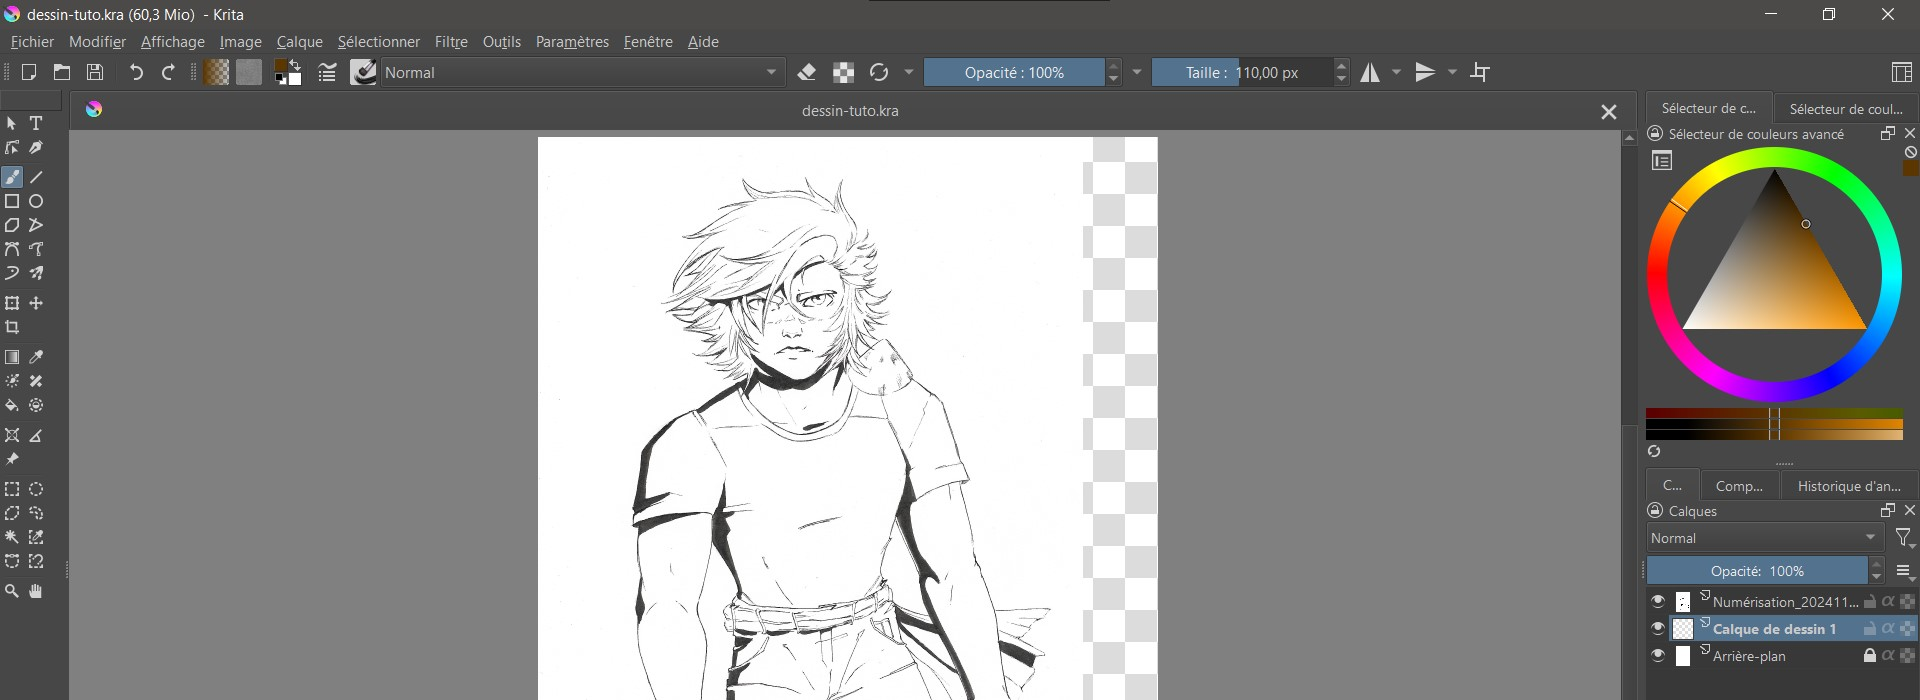
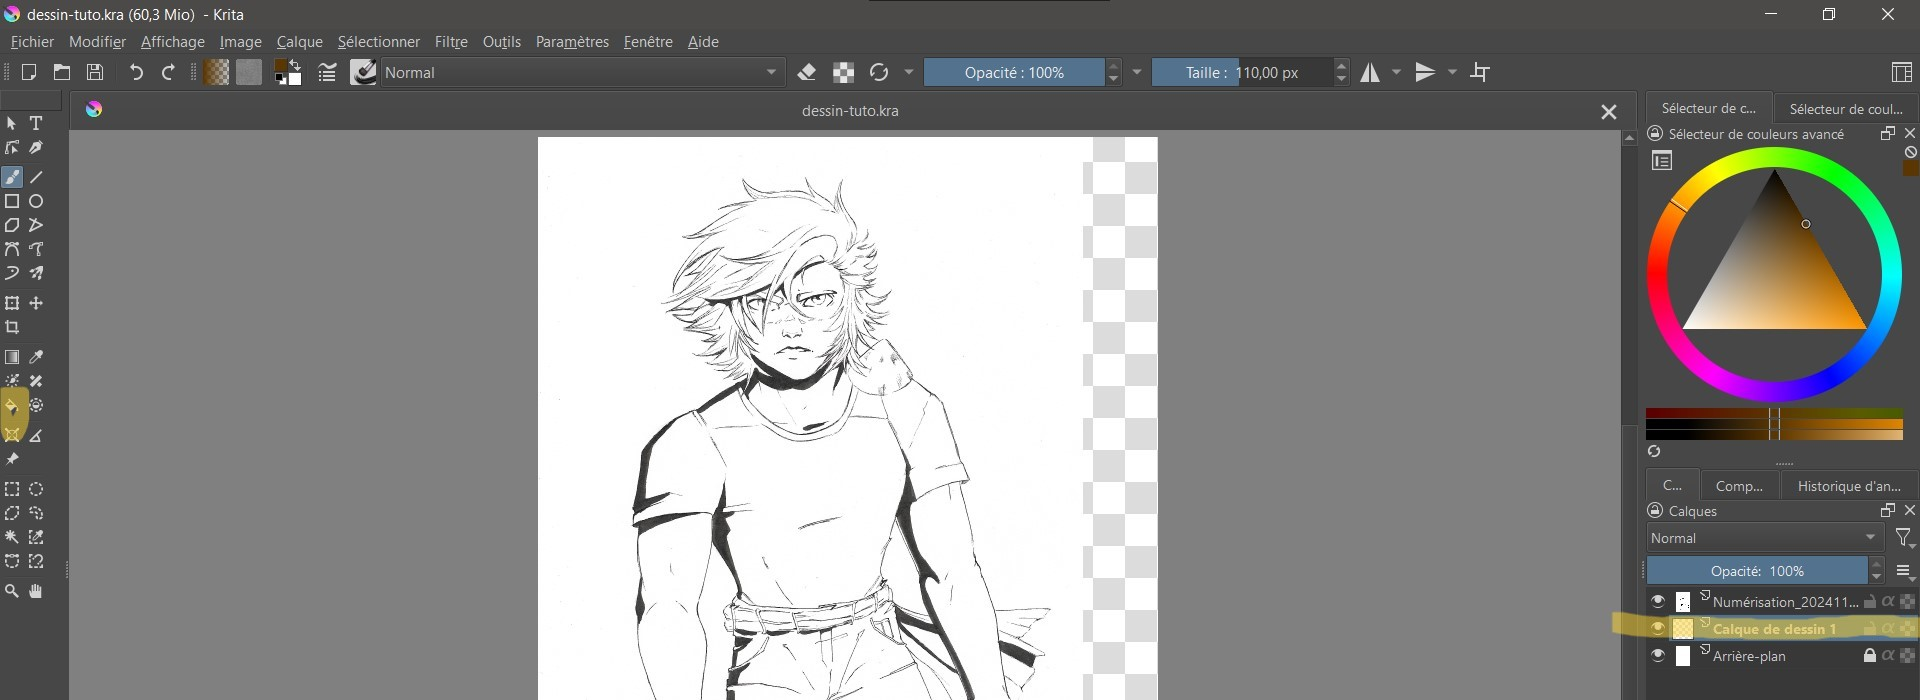
completion de la technique 1

Changed region(s): [[0.8125, 0.87, 1.0, 0.93], [0.0, 0.54, 0.0312, 0.63]]

diff --git a/graphisme/coloAvecKrita.md b/graphisme/coloAvecKrita.md
@@ -88,11 +88,17 @@ Sélectionner le dessin que nous avons scanné, l'ouvrir.
 - Créer un nouveau calque et le placer en dessous du scan
 - Double-cliquer sur son nom et le renommer 'fond' ou 'Arrière-plan'
 - Se positionner sur le calque de fond
+
+![selectionner le pot de peinture](/img/rajouter-pot-peinture-calque.jpg)
+
 - Sélectionner le pot de peinture (raccourci : F), la couleur blanche, et cliquez pour peindre tout le calque en blanc
 - Sauvegarder le fichier : Fichier > Enregistrer Sous... (raccourci Ctrl + Maj + S)
 - Sélectionner l'emplacement
 - Dans le menu déroulant des formats, sélectionner le format Krita (.kra)
 Valider
+![comment enregistrer le fichier](/img/ou-enregistrer-le-fichier.jpg)
+
+
 
 ### Technique 2 : Créer un nouveau fichier Krita (.kra) et importer le scan en tant que calque du fichier 
 
